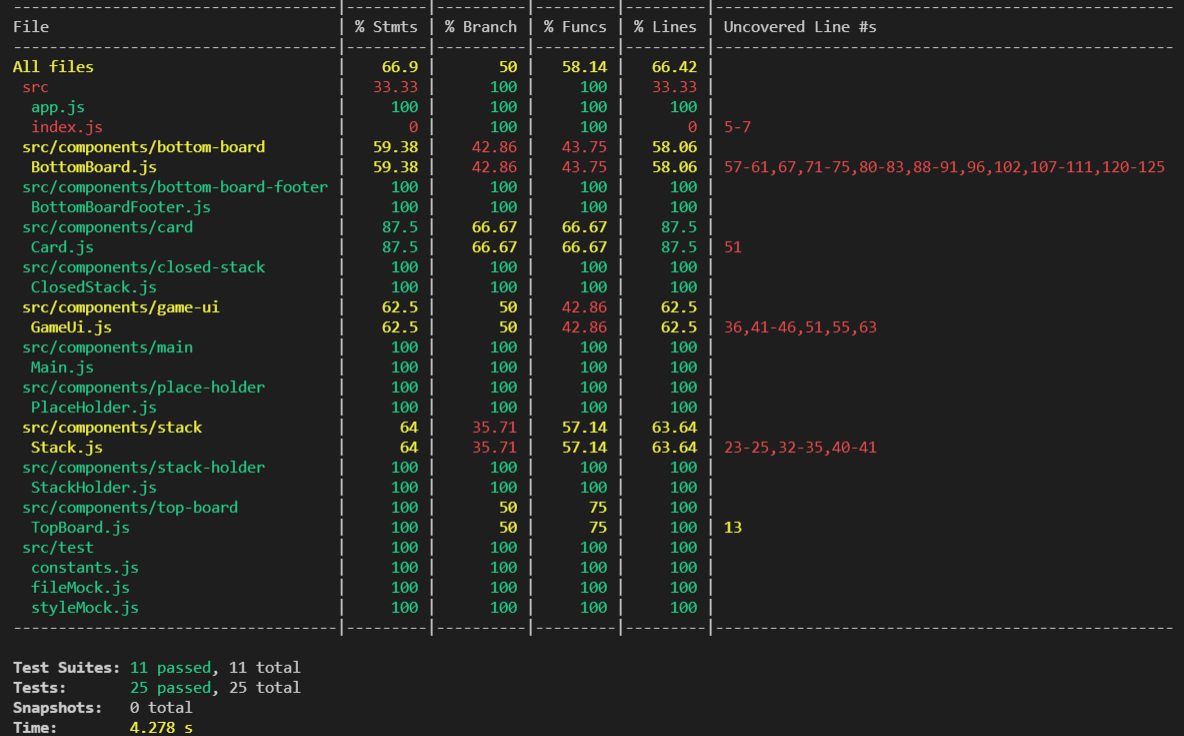
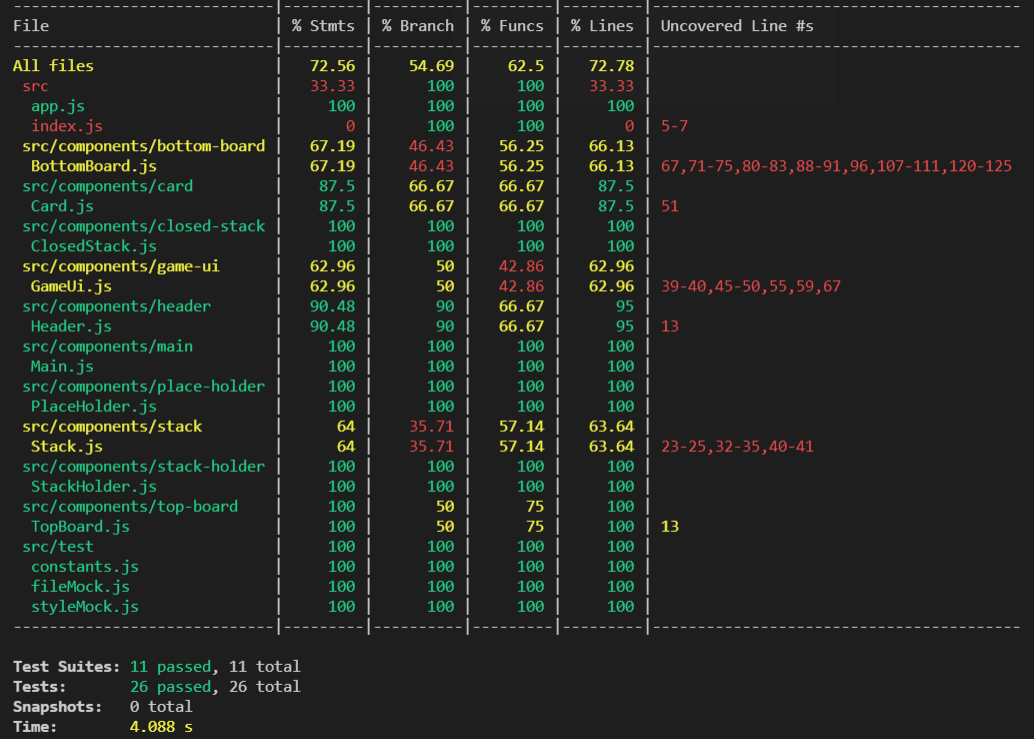
Added test

Changed region(s): [[0.0, 0.0, 0.9903, 1.0]]

diff --git a/src/test/BottomBoard.test.js b/src/test/BottomBoard.test.js
@@ -13,16 +13,105 @@ import { example54CardDeck } from './constants';
 import React from 'react';
 import { render } from '@testing-library/react';
 
-const mockedCardStack = describe('check html tags', () => {
+let mockedCardStack;
+beforeEach(() => {
+    mockedCardStack = [
+        {
+            value: 5,
+            isOpen: false,
+        },
+        {
+            value: 1,
+            isOpen: false,
+        },
+        {
+            value: 13,
+            isOpen: false,
+        },
+        {
+            value: 1,
+            isOpen: true,
+        },
+        {
+            value: 2,
+            isOpen: true,
+        },
+        {
+            value: 3,
+            isOpen: true,
+        },
+        {
+            value: 4,
+            isOpen: true,
+        },
+        {
+            value: 5,
+            isOpen: true,
+        },
+        {
+            value: 6,
+            isOpen: true,
+        },
+        {
+            value: 7,
+            isOpen: true,
+        },
+        {
+            value: 8,
+            isOpen: true,
+        },
+        {
+            value: 9,
+            isOpen: true,
+        },
+        {
+            value: 10,
+            isOpen: true,
+        },
+        {
+            value: 11,
+            isOpen: true,
+        },
+        {
+            value: 12,
+            isOpen: true,
+        },
+        {
+            value: 13,
+            isOpen: true,
+        },
+    ];
+});
+
+describe('check html tags', () => {
     it('should return main tags classname', () => {
+        const mockFunction = jest.fn();
         const {
             container: { firstChild },
         } = render(
             <BottomBoard
-                drawCards={drawCards}
-                shouldDraw={shouldDraw}
-                setShouldDraw={setShouldDraw}
-                onComplete={onComplete}
+                drawCards={mockFunction}
+                shouldDraw={false}
+                setShouldDraw={mockFunction}
+                onComplete={mockFunction}
+                isGameStarted={isGameStarted !== undefined}
+            />
+        );
+        expect(firstChild.className).toBe('bottom-board-container');
+    });
+
+    it('should return main tags classname', () => {
+        const mockFunction = jest.fn();
+        const {
+            container: { firstChild },
+        } = render(
+            <BottomBoard
+                drawCards={() => {
+                    return mockedCardStack.splice(10);
+                }}
+                shouldDraw={true}
+                setShouldDraw={mockFunction}
+                onComplete={mockFunction}
                 isGameStarted={isGameStarted !== undefined}
             />
         );
@@ -31,75 +120,6 @@ const mockedCardStack = describe('check html tags', () => {
 });
 
 describe('check funtions', () => {
-    let mockedCardStack;
-    beforeEach(() => {
-        mockedCardStack = [
-            {
-                value: 5,
-                isOpen: false,
-            },
-            {
-                value: 1,
-                isOpen: false,
-            },
-            {
-                value: 13,
-                isOpen: false,
-            },
-            {
-                value: 1,
-                isOpen: true,
-            },
-            {
-                value: 2,
-                isOpen: true,
-            },
-            {
-                value: 3,
-                isOpen: true,
-            },
-            {
-                value: 4,
-                isOpen: true,
-            },
-            {
-                value: 5,
-                isOpen: true,
-            },
-            {
-                value: 6,
-                isOpen: true,
-            },
-            {
-                value: 7,
-                isOpen: true,
-            },
-            {
-                value: 8,
-                isOpen: true,
-            },
-            {
-                value: 9,
-                isOpen: true,
-            },
-            {
-                value: 10,
-                isOpen: true,
-            },
-            {
-                value: 11,
-                isOpen: true,
-            },
-            {
-                value: 12,
-                isOpen: true,
-            },
-            {
-                value: 13,
-                isOpen: true,
-            },
-        ];
-    });
     it('should return last cards isOpen true', () => {
         const _mockedCardStack = [
             {

diff --git a/src/components/header/Header.js b/src/components/header/Header.js
@@ -1,23 +1,24 @@
 import React, { useState, useEffect } from 'react';
 import './header.scss';
 
+export const stringify = (string, n) => {
+    string = string.toLocaleString('en-US', {
+        minimumIntegerDigits: n,
+        useGrouping: false,
+    });
+    return string;
+};
+
+export const worstRestartEver = () => {
+    window.location.reload();
+};
+
 const Header = ({ onStartGame, isGameStarted, isGameFinished, gameScore, setGameScore, completedStacks }) => {
     const [counter, setCounter] = useState(0);
     const [seconds, setSeconds] = useState(0);
     const [minutes, setMinutes] = useState(0);
     const [hours, setHours] = useState(0);
 
-    const stringify = (string, n) => {
-        string = string.toLocaleString('en-US', {
-            minimumIntegerDigits: n,
-            useGrouping: false,
-        });
-        return string;
-    };
-
-    const worstRestartEver = () => {
-        window.location.reload();
-    };
     useEffect(() => {
         let gamePoints = counter === 0 ? 0 : Math.floor((6000 - counter) / 10);
         setGameScore(gameScore + gamePoints);

diff --git a/src/test/Header.test.js b/src/test/Header.test.js
@@ -1,0 +1,22 @@
+import Header, { onStartGame } from '../components/header/Header';
+import React from 'react';
+import { render } from '@testing-library/react';
+
+describe('check html tags', () => {
+    it('should return main tags classname', () => {
+        const mockFunction = jest.fn();
+        const {
+            container: { firstChild },
+        } = render(
+            <Header onStartGame={onStartGame} isGameStarted={false} gameScore={0} setGameScore={mockFunction} />
+        );
+        expect(firstChild.className).toBe('header');
+    });
+    it('should return main tags classname', () => {
+        const mockFunction = jest.fn();
+        const {
+            container: { firstChild },
+        } = render(<Header onStartGame={onStartGame} isGameStarted={true} gameScore={0} setGameScore={mockFunction} />);
+        expect(firstChild.className).toBe('header');
+    });
+});
